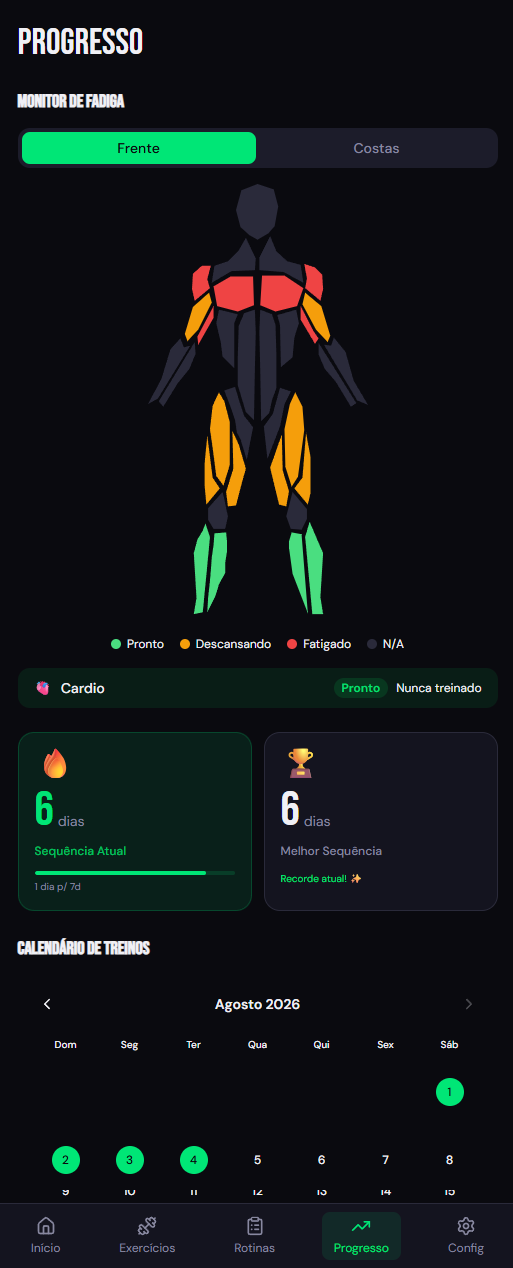
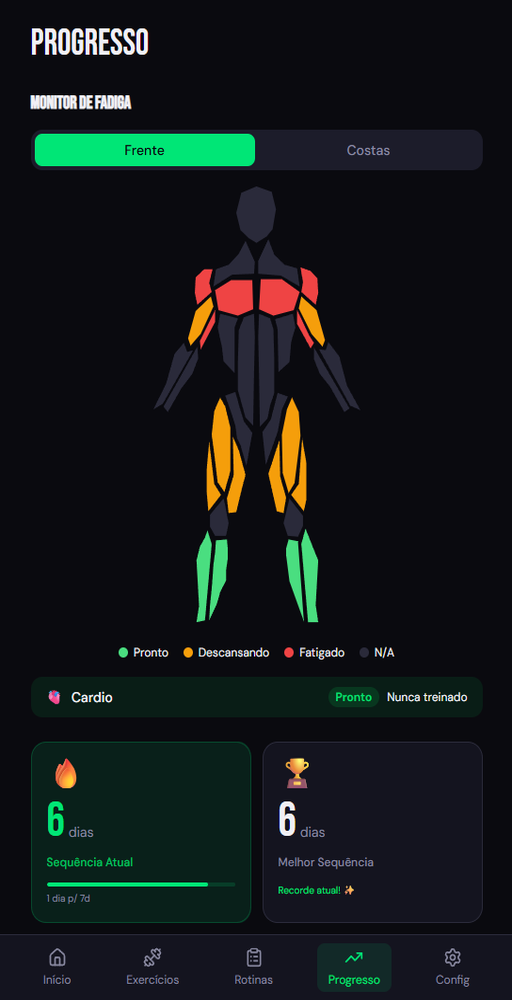
docs: normalize screenshot framing to a uniform 512x1000 and lay them out in a table
Mixed image heights made the README strip look ragged; crop boxes now come
from DOM geometry so every shot ends on a block boundary.

diff --git a/README.md b/README.md
@@ -4,16 +4,28 @@ A workout tracking app built with React. Log exercises, track sets and weights, 
 
 **[Live demo →](https://gabrieelbrazao.github.io/gym-app/)** — installable as a PWA; all data stays in your browser.
 
-<p align="center">
-  <img src="docs/screenshots/dashboard.png" width="30%" alt="Dashboard with streak, totals and today's scheduled routine" />
-  <img src="docs/screenshots/workout.png" width="30%" alt="Active workout with per-set logging and PR flash" />
-  <img src="docs/screenshots/progress.png" width="30%" alt="Progress page with muscle fatigue monitor and workout calendar" />
-</p>
-
-<p align="center">
-  <img src="docs/screenshots/routines.png" width="30%" alt="Routines and weekly schedule" />
-  <img src="docs/screenshots/exercises.png" width="30%" alt="Exercise library with muscle group filter" />
-</p>
+<table>
+  <tr>
+    <td><img src="docs/screenshots/dashboard.png" alt="Dashboard with totals and today's scheduled routine" /></td>
+    <td><img src="docs/screenshots/workout.png" alt="Active workout with per-set logging and PR flash" /></td>
+    <td><img src="docs/screenshots/progress.png" alt="Muscle fatigue monitor and streak cards" /></td>
+  </tr>
+  <tr>
+    <td align="center">Dashboard</td>
+    <td align="center">Active workout</td>
+    <td align="center">Progress</td>
+  </tr>
+  <tr>
+    <td><img src="docs/screenshots/routines.png" alt="Routines and weekly schedule" /></td>
+    <td><img src="docs/screenshots/exercises.png" alt="Exercise library with muscle group filter" /></td>
+    <td></td>
+  </tr>
+  <tr>
+    <td align="center">Routines &amp; weekly schedule</td>
+    <td align="center">Exercise library</td>
+    <td></td>
+  </tr>
+</table>
 
 ## Features
 
